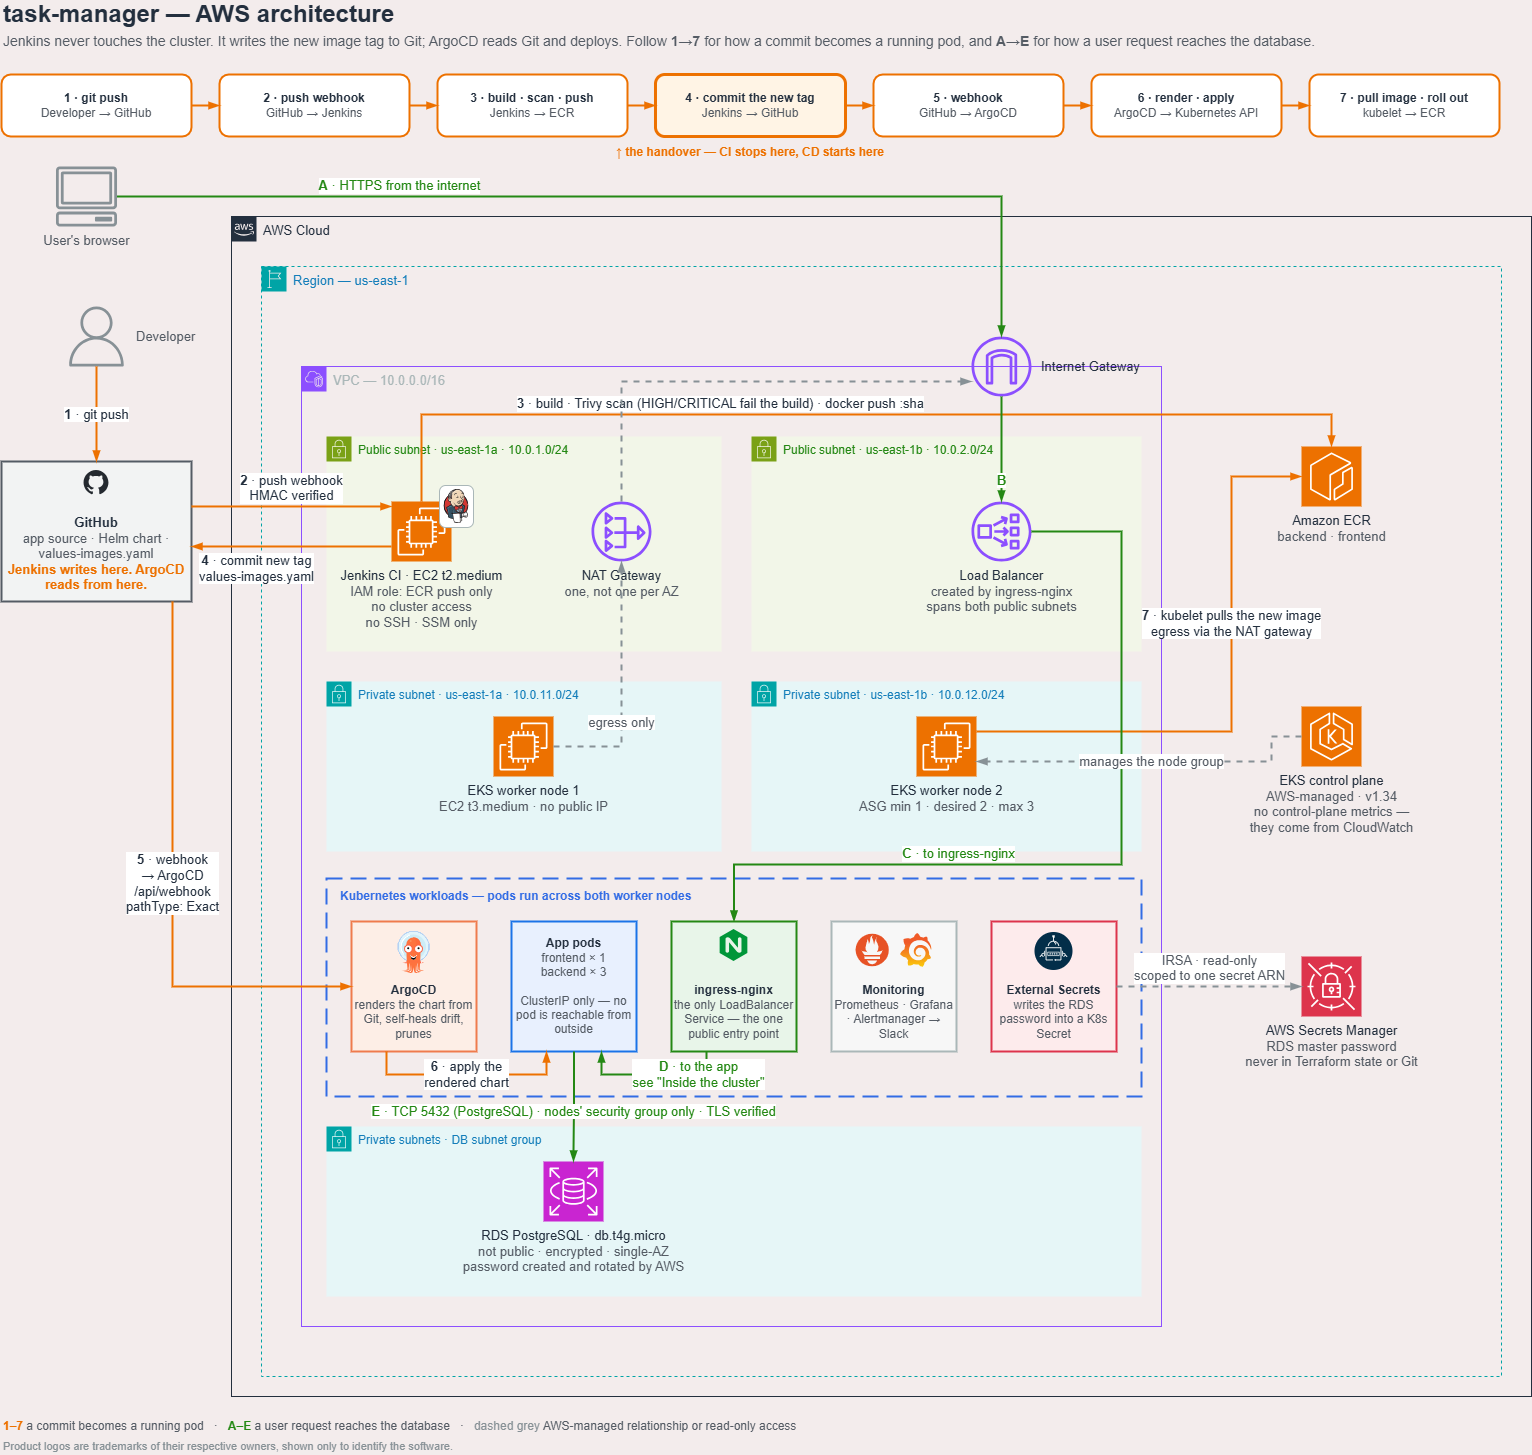
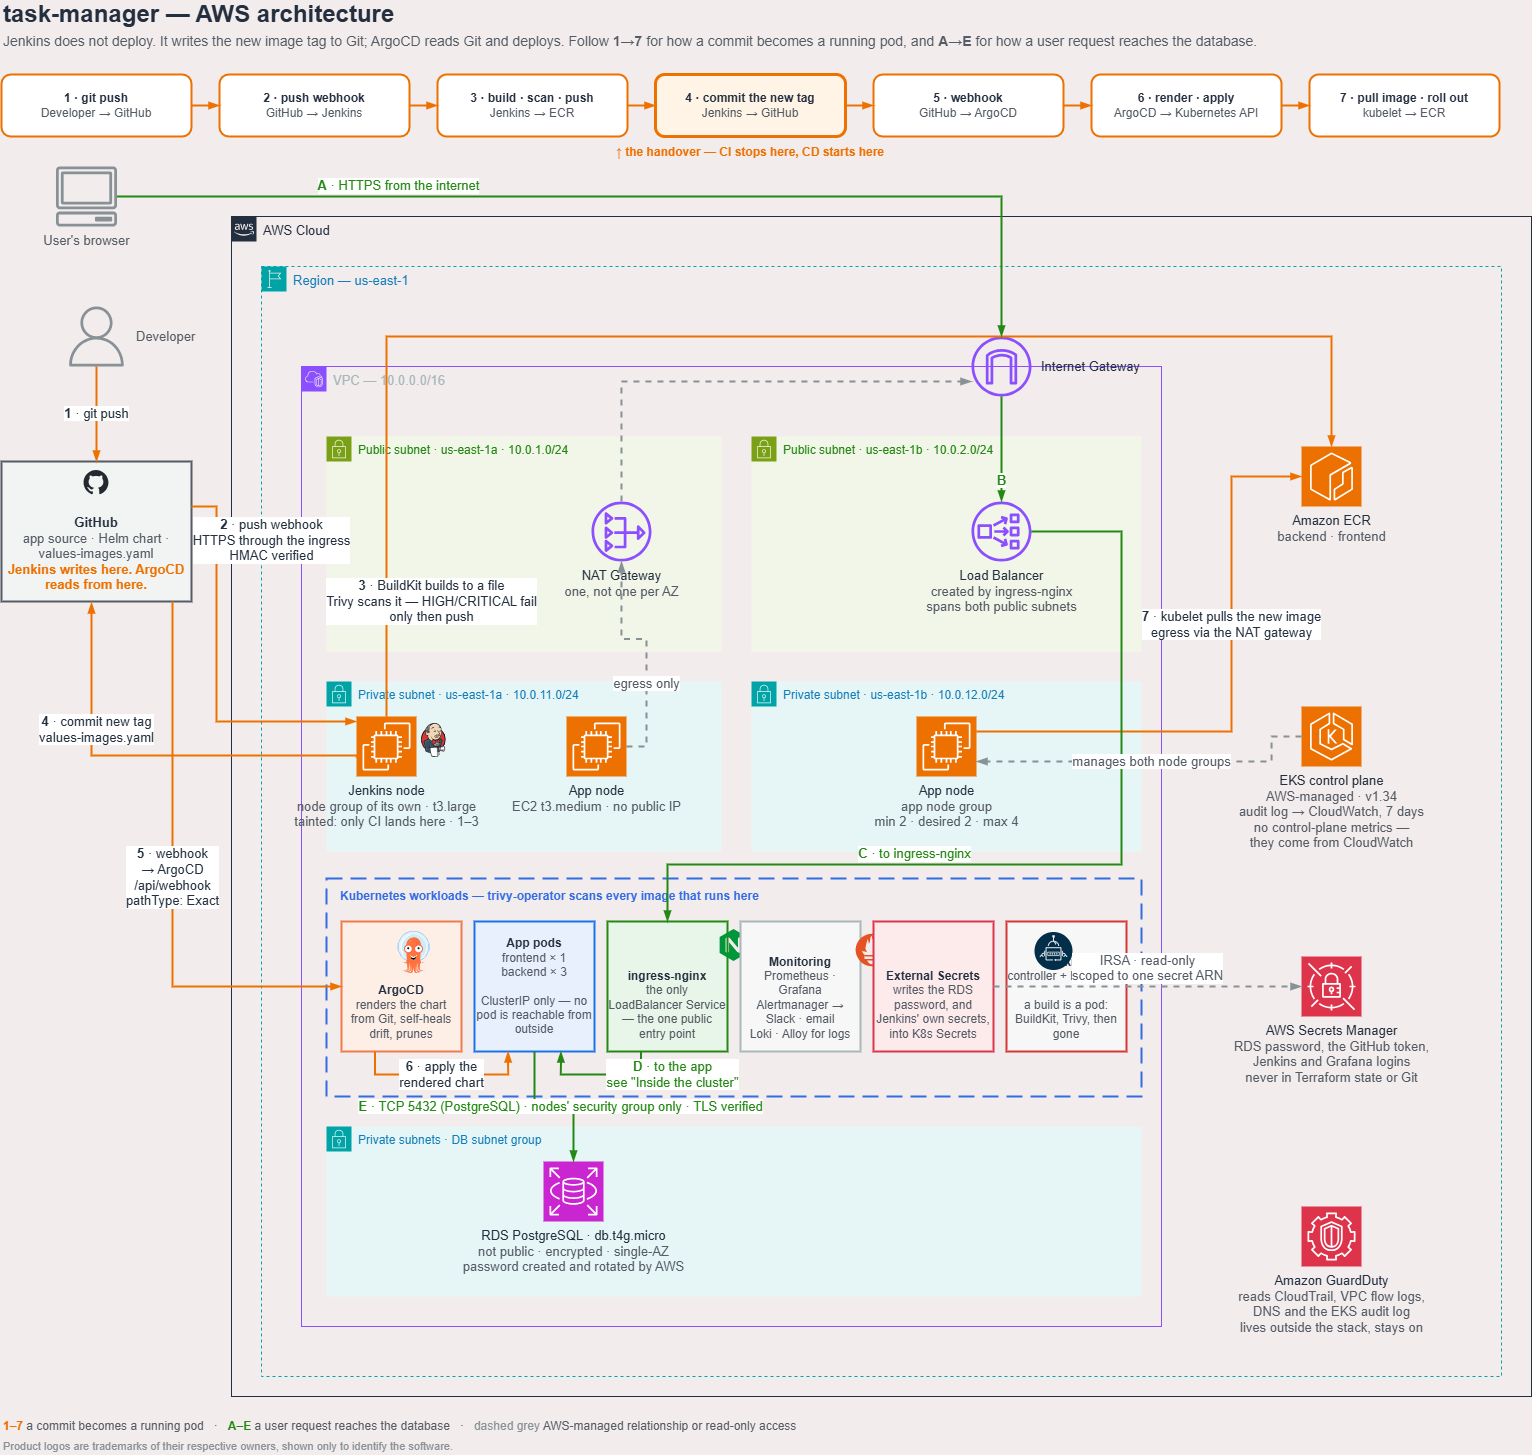
Bring both documents back in line with what runs
Twenty claims had gone stale, most of them from the Jenkins move: its
identity, its boot script, its IP, its apt key and its security group
were all still described, and the first build was still credited to a
Groovy script. Also: replicas belong to the autoscaler now, External
Secrets reaches more than two secrets, and Watchdog is a heartbeat
rather than something we drop.

diff --git a/HLD.md b/HLD.md
@@ -34,10 +34,10 @@ Browser → ingress → frontend → backend → database. Nothing skips a step.
 - Both app Services are `ClusterIP`. No pod IP, no NodePort, no public IP
 - `ingress-nginx` is the only `LoadBalancer`, so it's the only public entry point
 - The ingress routes to the frontend only. The backend API is never exposed — the frontend forwards a fixed list of routes to it
-- Worker nodes have no public IP, so a bad firewall rule can't expose them
+- No node has a public IP, so a bad firewall rule can't expose one
 - RDS accepts port 5432 from the nodes' security group only — not a CIDR, not the internet
 
-**Replicas:** backend runs 3 (stateless, so it's cheap redundancy), frontend runs 1. Change the number in `values.yaml` and ArgoCD applies it on the next sync.
+**Replicas** are the autoscaler's to decide: backend 3-10, frontend 2-6, on CPU and memory. The chart leaves `replicas` out of both Deployments when autoscaling is on, so nothing fights the HPA over the number.
 
 ---
 
@@ -94,7 +94,7 @@ That credential belongs to a Google project, not to this infrastructure, so Terr
 
 **CD** — webhook → merge the values files → sync the chart → Kubernetes rolls out
 
-**Secrets** — External Secrets Operator reads two secrets from Secrets Manager over IRSA and writes them into one K8s Secret: the RDS password, which AWS rotates itself and which never enters Terraform state or Git, and the JWT signing key, which Terraform generates.
+**Secrets** — External Secrets Operator reads Secrets Manager over IRSA and writes what each namespace needs: the RDS password that AWS rotates itself, the JWT signing key, the app's own database role, Grafana's and Jenkins' logins, the webhook secret and the GitHub token. None of them enters Terraform state or Git.
 
 <details>
 <summary>Why ArgoCD ignores most commits — and reverts changes you never committed</summary>
@@ -152,7 +152,7 @@ The chart refuses to render if any of them is missing, so a gap is a clear sync 
 
 | Component | Tool | Job |
 |---|---|---|
-| Infra + add-ons | Terraform | VPC, EKS, EC2, ECR, RDS, and the four cluster add-ons |
+| Infra + add-ons | Terraform | VPC, EKS, EC2, ECR, RDS, and everything the cluster runs before the app does |
 | CI | Jenkins | In-cluster, on its own node group: build, scan, push, bump the tag file |
 | CD | ArgoCD | Apply the chart, self-heal drift, prune |
 | App | Next.js + NestJS | Frontend with a session layer, and the API behind it |
@@ -185,7 +185,7 @@ Three layers, each answering a different question.
 
 | | |
 |---|---|
-| The cluster's **audit log** - who did what | Every request to the Kubernetes API is recorded: who asked, for what, and whether it was allowed. EKS writes it to CloudWatch and keeps a week. The log group is a Terraform resource on purpose - EKS creates one by itself otherwise, and leaves it behind after the cluster is gone |
+| The cluster's **audit log** - who did what | Every request to the Kubernetes API is recorded: who asked, for what, and whether it was allowed. EKS writes it to CloudWatch, with a week's retention - though in an environment rebuilt daily the log group goes with the destroy long before that. The log group is a Terraform resource on purpose - EKS creates one by itself otherwise, and leaves it behind after the cluster is gone |
 | **GuardDuty** - is anyone attacking the account | AWS reads CloudTrail, VPC flow logs, DNS and that audit log, and matches them against known attack patterns. It reports rather than blocks: findings of medium severity and above reach the same inbox as the alerts. It sits in the bootstrap stack, so it keeps watching at night, when everything else is destroyed. S3 data events and malware scanning are switched off - both bill by volume and neither earns its keep here |
 | **trivy-operator** - what is running that is vulnerable | Jenkins scans the two images it builds, once, at build time. The operator scans everything actually running - including images nobody here built - and scans again as new vulnerabilities are published. Only HIGH and CRITICAL, and only what has a fix |
 
@@ -222,7 +222,7 @@ Two things are silenced on purpose:
 
 | | |
 |---|---|
-| Worker nodes | Private subnets, no public IP. Egress via NAT, except in-region S3 (gateway endpoint) |
+| Nodes, both groups | Private subnets, no public IP. Egress via NAT, except in-region S3 (gateway endpoint) |
 | App | HTTPS only - the load balancer terminates TLS, and nginx redirects port 80. The backend is `ClusterIP` only |
 | Jenkins | HTTPS through the ingress, limited to your IP + GitHub's webhook ranges. Nothing else |
 | Jenkins host access | **None.** There is no machine to log in to |
@@ -233,8 +233,8 @@ Two things are silenced on purpose:
 
 | | |
 |---|---|
-| Jenkins | IAM instance profile, ECR push only. No static keys, no cluster access |
-| External Secrets | IRSA, read-only, scoped to exactly two secret ARNs |
+| Jenkins builds | IRSA on the agent's service account: push to two ECR repositories, nothing else. No static keys |
+| External Secrets | IRSA, read-only, scoped to the exact secret ARNs it needs and no others |
 | RDS | Not public, encrypted, password created and rotated by AWS |
 | App users | argon2id password hashes, rotating refresh tokens, `httpOnly` cookies |
 
@@ -247,13 +247,11 @@ Two things are silenced on purpose:
 
 **Trivy gates the build.** HIGH and CRITICAL CVEs fail it before anything reaches ECR.
 
-Trivy itself is pinned to a fixed version rather than pulled from a floating `latest`, and its tarball is checked against the published SHA-256 before it is installed. The bootstrap runs under `set -eo pipefail`, so a mismatch aborts it instead of leaving the build to scan with an unverified binary.
+Trivy runs as a pinned image, like every other tool in the build pod, rather than a floating `latest` - so the scanner that passes a build today is the one that passed it last week.
 
 **Runtime images** run a current Node LTS with `npm` removed from the final stage. npm's bundled dependencies were the last HIGH findings standing between the image and a clean scan. The compiled code is owned by root, so the process cannot modify it.
 
 **Database connections use TLS with certificate verification** against the Amazon RDS CA bundle baked into the image. Not `rejectUnauthorized: false`, which encrypts without authenticating.
-
-**Jenkins' apt key is pinned and its key id verified** before the repo is trusted. A key rotation fails the bootstrap loudly instead of silently installing from an unsigned source.
 
 </details>
 
@@ -266,11 +264,11 @@ terraform destroy
 ```
 
 The dependency graph orders the network half: the Helm releases go first, then
-the node group (~5 min), then the cluster (~10 min), and only then the subnets
+both node groups (~8 min), then the cluster (~3 min), and only then the subnets
 and the VPC. By the time anything touches the network, the load balancer
 Kubernetes created has been gone for a quarter of an hour, so no wait or retry
-belongs between them. A destroy run on 2026-09-22 confirmed it: 97 resources, no
-DependencyViolation.
+belongs between them. The destroy on 2026-09-24 confirmed it: 111 resources, no
+DependencyViolation and nothing left behind.
 
 **Why the monitoring volumes used to be left behind.** The nodes reach the AWS
 API through the NAT, and nothing referenced the route to it, so Terraform deleted
@@ -289,7 +287,7 @@ What is arranged:
 |---|---|
 | The node group **depends on the NAT route** and on the private subnets' route-table links; the NAT, on its own subnet's link | Nothing else references them, so without this Terraform deletes them in the first second of a destroy, and everything still running on the nodes loses its way to the AWS API |
 | The ArgoCD `Application` carries **no finalizer** | Helm deletes the Application and the ArgoCD controller in the same uninstall. A finalizer would wait for a controller that is already going, and hang until the timeout. Nothing is lost by dropping it: the app owns only ClusterIP Services, Deployments and an Ingress - no cloud resources |
-| The `monitoring` namespace is a **Terraform resource**, not `create_namespace` | A Helm uninstall does not delete a namespace, and the Prometheus, Grafana and Alertmanager PVCs live in it. Deleting the namespace deletes the PVCs |
+| The `monitoring` and `jenkins` namespaces are **Terraform resources**, not `create_namespace` | A Helm uninstall does not delete a namespace, and the volumes of Prometheus, Grafana, Alertmanager, Loki and Jenkins live in them. Deleting the namespace deletes the claims |
 | Between that namespace and the EBS CSI driver, the destroy **waits until the volumes are gone** | A PersistentVolume is cluster-scoped and outlives its namespace, and the CSI driver removes the volume asynchronously afterwards. The destroy waits for each of the cluster's volumes to be deleted, up to 10 minutes; if one is not, it stops there - with the driver still running - instead of leaving it behind |
 | The CSI addon depends on **both node groups**, and on its policy attachment, not only its role | Without the node groups it can be torn down while a volume is still attached - the Jenkins node was being deleted in the same second as its own namespace, and only finished later by luck. Without the attachment, nothing references it and Terraform removes it in the first second of a destroy, leaving the driver without permission for the rest of it |
 | The vpc-cni addon has `preserve = true` | Nothing orders it after the CSI chain; preserved, `aws-node` goes with the cluster at the very end instead of mid-teardown |
@@ -320,7 +318,6 @@ Decisions that are not obvious from reading the code, and that something depends
 | The ArgoCD Application comes from the `argocd-apps` chart, in a release ordered after argo-cd | A chart cannot create a custom resource whose CRD it installs in that same release: Helm validates the whole manifest against the cluster before installing anything, so the kind does not exist yet. A `kubernetes_manifest` does not work either - it is evaluated at plan time, before the cluster exists |
 | Kubernetes/Helm providers authenticate through `aws eks get-token`, not `aws_eks_cluster_auth` | That data source resolves once per plan and is stored in state, so the next run configures the provider with a token minted hours earlier. EKS tokens live 15 minutes |
 | The SNS topics carry no KMS key | The AWS managed key for SNS grants use to IAM principals only - CloudWatch and Budgets cannot publish through it, and their notifications would fail silently. A customer managed key would cost a dollar a month and linger for a week after every destroy. The messages carry alarm names, not data |
-| No SSH rule on the Jenkins security group | The instance is reached through SSM Session Manager, which needs no inbound port. Port 22 open on a host holding the GitHub token and ECR push rights was the largest hole here |
 | `aws_route53_record.cert_validation` sets `allow_overwrite` | A stale validation record from a previous certificate in the same zone would otherwise block the apply |
 | Grafana's admin login comes from an ExternalSecret, not a Helm value | A Helm value is an argument of the release resource and would be recorded in state, undoing the write-only argument that generated it |
 
@@ -332,7 +329,6 @@ Decisions that are not obvious from reading the code, and that something depends
 |---|---|
 | Two webhook signing secrets are in Terraform state | Unavoidable: Terraform hands the same value to GitHub and to the receiver, and an ephemeral value cannot reach an ordinary resource argument. Everything else it generates is written with a write-only argument and never recorded — see [State](#state) |
 | The domain must already be a delegated Route53 zone | Terraform looks the zone up rather than creating it; a zone created in the same apply would not be delegated, and certificate validation would wait on DNS nobody can answer |
-| A rebuild changes the Jenkins IP | The DNS record follows it, so the webhook keeps working, but the record's 60s TTL means a minute of stale answers |
 | RDS is single-AZ | `multi_az = true` when uptime beats cost |
 | One NAT gateway, not one per AZ | ~$32/month instead of ~$64. An AZ outage takes egress for both |
 | S3 gateway endpoint only, no interface endpoints | ECR API, STS, Secrets Manager and EC2 calls still use the NAT. Interface endpoints cost ~$7/month each per AZ, more than the NAT |
@@ -348,7 +344,7 @@ Decisions that are not obvious from reading the code, and that something depends
 
 Jenkins runs in the cluster, on a node group of its own. A build is a pod that appears, works and disappears - so two builds do not queue behind one machine, and nothing sits idle between them. The node group carries a taint, so only Jenkins lands there: a heavy build cannot starve the app or the monitoring, and the bill shows what CI costs on its own.
 
-The controller's entire configuration is `JCasC` - the admin account, the two credentials, the GitHub plugin's webhook secret, and the pipeline job itself. Nothing is created by hand in the UI, and nothing survives that was not declared. The job's first build is queued by that same configuration, because ECR is empty after every rebuild and nothing else would trigger one.
+The controller's entire configuration is `JCasC` - the admin account, the two credentials, the GitHub plugin's webhook secret, and the pipeline job itself. Nothing is created by hand in the UI, and nothing survives that was not declared. That job polls the repository every five minutes as well as listening for the webhook, which is what starts the first build: ECR is empty after every rebuild and no push is coming. Job DSL's `queue()` looked like the obvious way and does nothing inside JCasC - a live test on an empty JENKINS_HOME is what showed it.
 
 Its four secrets - the admin username and password, the webhook signing secret and the GitHub token - come from Secrets Manager through External Secrets, as everywhere else here. JCasC reads them from files, so they reach neither the Helm values nor the state file.
 

diff --git a/README.md b/README.md
@@ -186,26 +186,26 @@ git push → Jenkins builds & scans → ECR → Jenkins commits the tag → Argo
 
 **4. ArgoCD deploys.** A second webhook wakes it, and it syncs the chart to EKS. The backend applies any new database migrations as it starts.
 
-**5. Secrets arrive on their own.** External Secrets Operator pulls the DB credentials and the JWT signing key from Secrets Manager into the cluster. No secret ever passes through Git or Jenkins.
+**5. Secrets arrive on their own.** External Secrets Operator pulls what each namespace needs out of Secrets Manager - the database credentials, the JWT signing key, Grafana's and Jenkins' logins, the GitHub token. No secret is ever committed, and none passes through a Helm value or Terraform state.
 
-**6. Monitoring runs throughout.** Prometheus, Grafana, and Alertmanager. Put `SLACK_WEBHOOK_URL` in the credentials entry and warning + critical alerts go to Slack — Alertmanager reads it from a file the operator writes, so the URL never appears in a Helm value or in Terraform state.
+**6. Monitoring runs throughout.** Prometheus, Grafana, Alertmanager, and Loki for the logs. Put `SLACK_WEBHOOK_URL` in the credentials entry and warning + critical alerts go to Slack — Alertmanager reads it from a file the operator writes, so the URL never appears in a Helm value or in Terraform state. Critical alerts also go to `ALERT_EMAIL`, because one channel is one point of failure.
 
 <details>
 <summary>Details on the webhooks, the first build, alert filtering, and Jenkins' self-setup</summary>
 
 <br>
 
-**The webhooks are Terraform resources.** Both are declared in `terraform/github.tf`, so an apply creates or corrects them, a destroy removes them, and a plan shows it if somebody edits one in the GitHub UI. They point at DNS names, not at IP addresses, so replacing the Jenkins instance does not invalidate them.
+**The webhooks are Terraform resources.** Both are declared in `terraform/github.tf`, so an apply creates or corrects them, a destroy removes them, and a plan shows it if somebody edits one in the GitHub UI. They point at DNS names, not at IP addresses, so a rebuild does not invalidate them.
 
-**The first build starts itself.** ECR is recreated empty on every build, and a push is normally what starts a job — so the Groovy script that creates the job also queues its first run. If it ever fails, press **Build Now** in Jenkins.
+**The first build starts itself.** ECR is recreated empty on every build, and a push is normally what starts a job — so the job polls the repository every five minutes as well as listening for the webhook. That poll is what starts the first build, and it also covers a webhook that never arrives. If it ever fails, press **Build Now** in Jenkins.
 
 **Jenkins skips its own commits.** A build started by a push whose last commit is the `ci: deploy` bump is skipped, so the pipeline cannot trigger itself forever. A build started any other way always runs.
 
 **ArgoCD stays private.** Only its `/api/webhook` path is exposed through the ingress — the UI and API are not. Payloads must be signed with a secret Terraform generates. If the webhook is ever down, ArgoCD's own 180-second poll catches the change anyway.
 
-**Alert noise is filtered.** `Watchdog` and `InfoInhibitor` are dropped. So are the chart's scheduler, controller-manager and etcd rules — EKS runs those on AWS's side where nothing can scrape them, so they'd report "down" forever.
+**Alert noise is filtered.** `InfoInhibitor` is dropped, and so are the chart's scheduler, controller-manager and etcd rules — EKS runs those on AWS's side where nothing can scrape them, so they'd report "down" forever. `Watchdog`, the alert that always fires, is not dropped: it is published to an SNS topic every couple of minutes, and a CloudWatch alarm on its absence is what tells you the alerting itself has died.
 
-**Jenkins configures itself.** No setup wizard. `terraform apply` runs a `user_data` script that installs Jenkins and Docker, plus a Groovy script that creates the admin login, the GitHub credential, and the pipeline job on first boot. The three secrets it needs are pulled from Secrets Manager at boot with the instance's own IAM role — user-data itself carries no secret, because anything in it can be read back from the metadata service by every process on the host.
+**Jenkins configures itself.** No setup wizard, and nothing created by hand. Jenkins runs in the cluster from a Helm release, and its entire configuration is `JCasC`: the admin login, the GitHub credential, the webhook secret and the pipeline job. The four secrets it needs come from Secrets Manager through External Secrets, so they reach neither the Helm values nor the state file. A build is a pod that appears, builds with BuildKit, is scanned by Trivy, and disappears.
 
 </details>
 
@@ -248,11 +248,12 @@ Running the whole stack on your own machine is a convenience, not part of the de
 | **App** | Next.js (React) · NestJS · PostgreSQL · argon2id passwords · JWT sessions |
 | **IaC** | Terraform — VPC, EKS, EC2, ECR, RDS, IAM |
 | **Packaging** | Helm |
-| **CI** | Jenkins + Trivy |
+| **CI** | Jenkins in-cluster + BuildKit + Trivy |
 | **CD** | ArgoCD (GitOps, pull-based) |
 | **Secrets** | External Secrets Operator + IRSA |
 | **Ingress** | ingress-nginx |
-| **Monitoring** | Prometheus · Grafana · Alertmanager |
+| **Monitoring** | Prometheus · Grafana · Alertmanager · Loki |
+| **Security** | GuardDuty · EKS audit log · trivy-operator |
 
 ## Database
 
